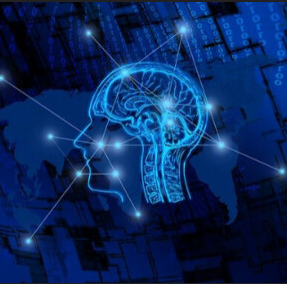
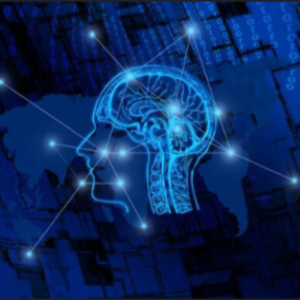
Updated image sizes so they are all now inline

diff --git a/index.html b/index.html
@@ -94,15 +94,15 @@
             />
           </div>
           <div class="col-md-8">
-            <h1 class="mt-5" style = "font-family: 'Staatliches', cursive; font-size:70px;"><u>All About Me!</u></h1>
-            <p class="mt-4">
+            <h1 class="mt-5 mx-5" style = "font-family: 'Staatliches', cursive; font-size:70px;"><u>All About Me!</u></h1>
+            <p class="mt-4 mx-5">
               I'm Evelyn, a final year computer science student at Nottingham Trent University and
               an avid programmer with experience in many areas such as machine learning, artificial intelligence,
               RESTful API's and web development... like this site. Currently I'm working on turning my AI chatbot
               into a REST service using Django and Flask so the AI itself can be stored in a central location and user's only have to
               download and run the client.
             </p>
-            <p class="mt-4">
+            <p class="mt-4 mx-5">
               As a python instructor for
               <a href="https://codefirstgirls.com/">Code First Girls</a>, a charity aiming to improve the representation of women
               and non binary people in the tech industry, I get the oppurtunity to share my passion for programming and pass on my
@@ -158,10 +158,9 @@
               <!-- Card 3 -->
               <div class="card rounded">
                 <img
-                  src="images/ML.png"
+                  src="images/ML2.png"
                   class="card-img-top"
                   alt="Machine Learning Image"
-                  height="250"
                 />
                 <div class="card-body">
                   <h5 class="card-title"><b>Machine Learning</b></h5>

diff --git a/portfolio.html b/portfolio.html
@@ -25,7 +25,7 @@
 
       <!-- NavBar -->
 
-      <nav class="navbar navbar-expand-lg navbar-dark bg-dark">
+      <nav class="navbar navbar-expand-lg navbar-dark bg-dark" role="navigation">
         <div class="container">
           <a class="navbar-brand" href="index.html">EvelynVoce</a>
           <button
